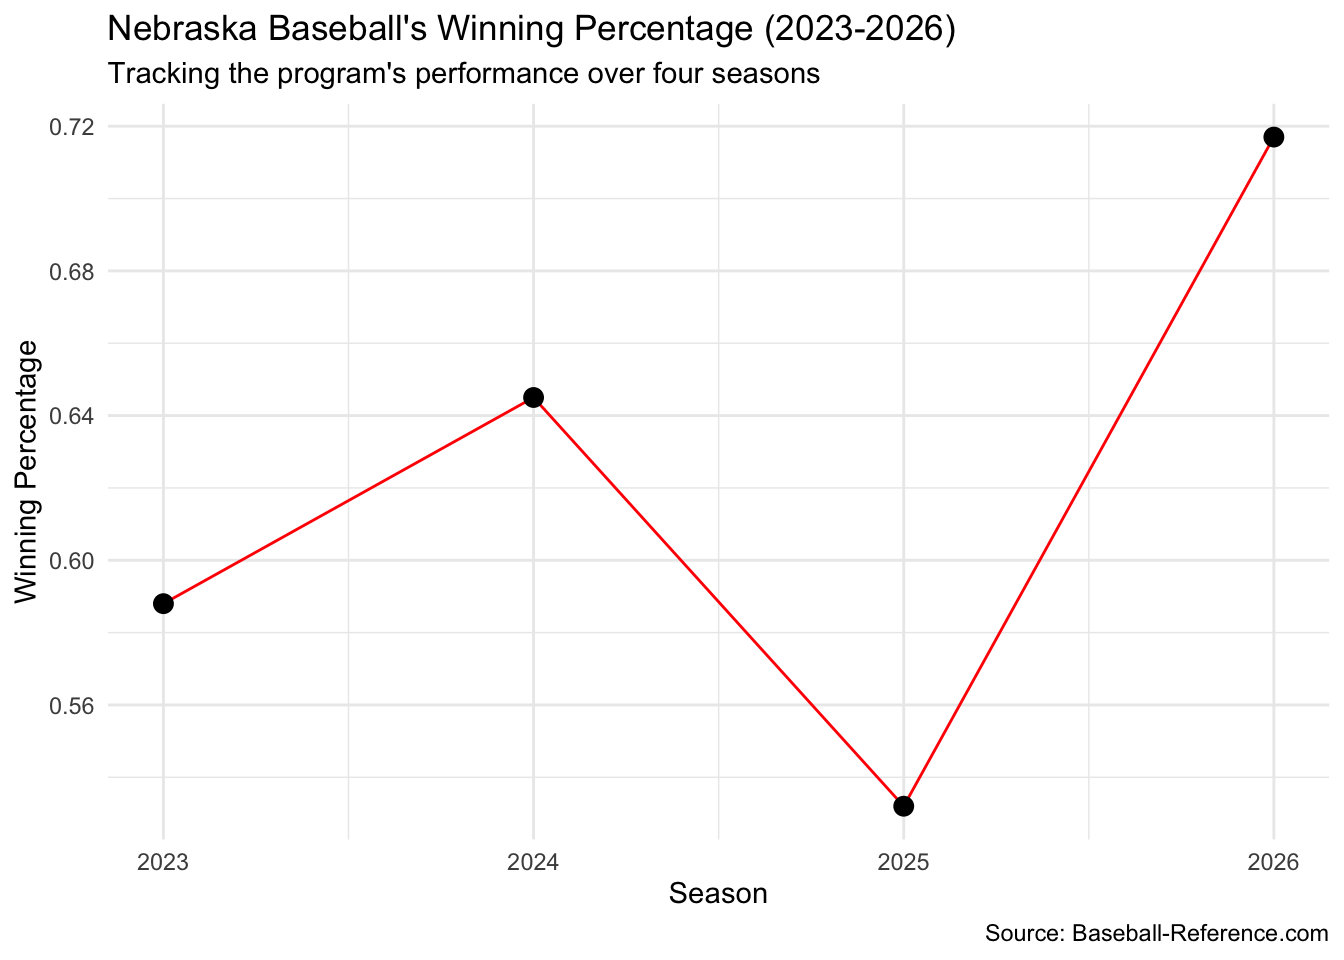
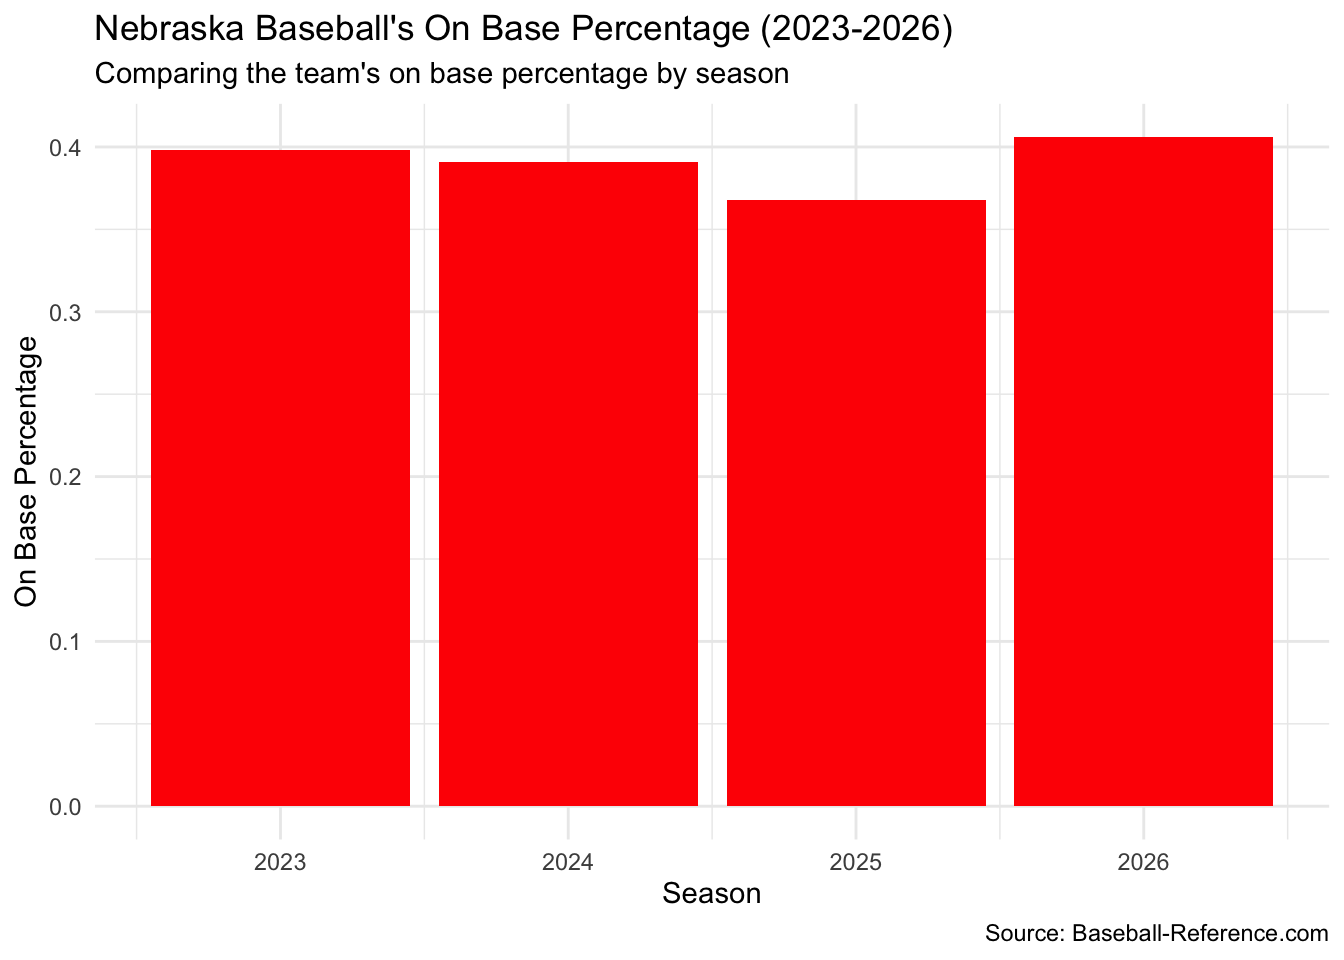
Change image

diff --git a/index.html b/index.html
@@ -384,7 +384,7 @@ window.Quarto = {
 
 <div class="quarto-listing quarto-listing-container-default" id="listing-listing">
 <div class="list quarto-listing-default">
-<div class="quarto-post image-right" data-index="0" data-listing-date-sort="1794549600000" data-listing-file-modified-sort="1794533153603" data-listing-date-modified-sort="NaN" data-listing-reading-time-sort="5" data-listing-word-count-sort="822">
+<div class="quarto-post image-right" data-index="0" data-listing-date-sort="1794549600000" data-listing-file-modified-sort="1794596069731" data-listing-date-modified-sort="NaN" data-listing-reading-time-sort="5" data-listing-word-count-sort="818">
 <div class="thumbnail"><a href="./posts/nebraska-baseball-stats/index.html" class="no-external-icon">
 
 <img loading="lazy" src="./posts/nebraska-baseball-stats/image.png" class="thumbnail-image">

diff --git a/posts/nebraska-baseball-stats/index.html b/posts/nebraska-baseball-stats/index.html
@@ -415,7 +415,7 @@ pre > code.sourceCode > span > a:first-child::before { text-decoration: underlin
 <div class="cell-output-display">
 <div>
 <figure class="figure">
-<p><img src="index_files/figure-html/unnamed-chunk-2-1.png" class="img-fluid figure-img" width="672"></p>
+<p><img src="index_files/figure-html/unnamed-chunk-3-1.png" class="img-fluid figure-img" width="672"></p>
 </figure>
 </div>
 </div>
@@ -438,7 +438,7 @@ pre > code.sourceCode > span > a:first-child::before { text-decoration: underlin
 <div class="cell-output-display">
 <div>
 <figure class="figure">
-<p><img src="index_files/figure-html/unnamed-chunk-3-1.png" class="img-fluid figure-img" width="672"></p>
+<p><img src="index_files/figure-html/unnamed-chunk-4-1.png" class="img-fluid figure-img" width="672"></p>
 </figure>
 </div>
 </div>
